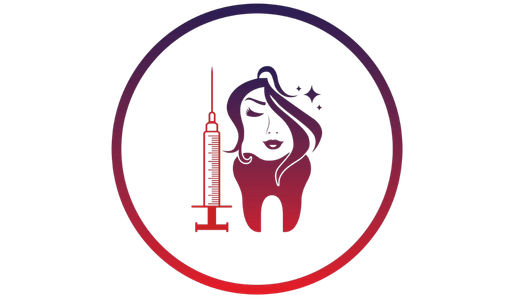
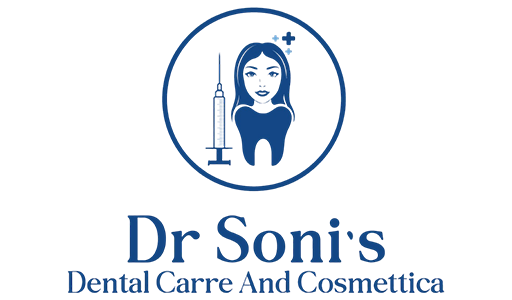
newlogo change

Changed region(s): [[0.125, 0.0, 0.875, 0.99]]

diff --git a/src/components/site/RegisterForm.tsx b/src/components/site/RegisterForm.tsx
@@ -5,7 +5,7 @@ import { toast } from "sonner";
 const GOOGLE_SHEETS_URL =
   "https://script.google.com/macros/s/AKfycbxg-TkX_b2-zAbxHYquet0kFhYtpay0WbWYeOrF6uYSg1t2_mJiTIUDj4HoCgbBPRtxpg/exec";
 const MAILER_URL = "https://mailer-5x4h33dpla-uc.a.run.app/";
-const NOTIFY_EMAIL = ["[email redacted]"];
+const NOTIFY_EMAIL = ["[email redacted]"];
 // ──────────────────────────────────────────────────────────────────────────
 
 export function RegisterForm() {